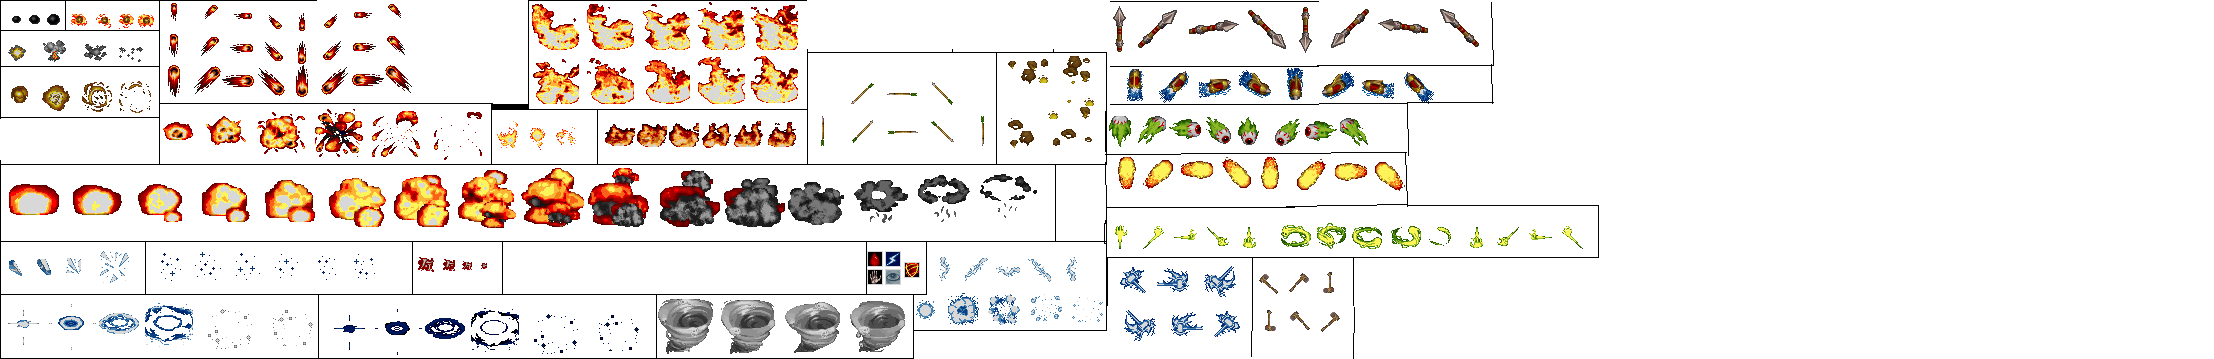
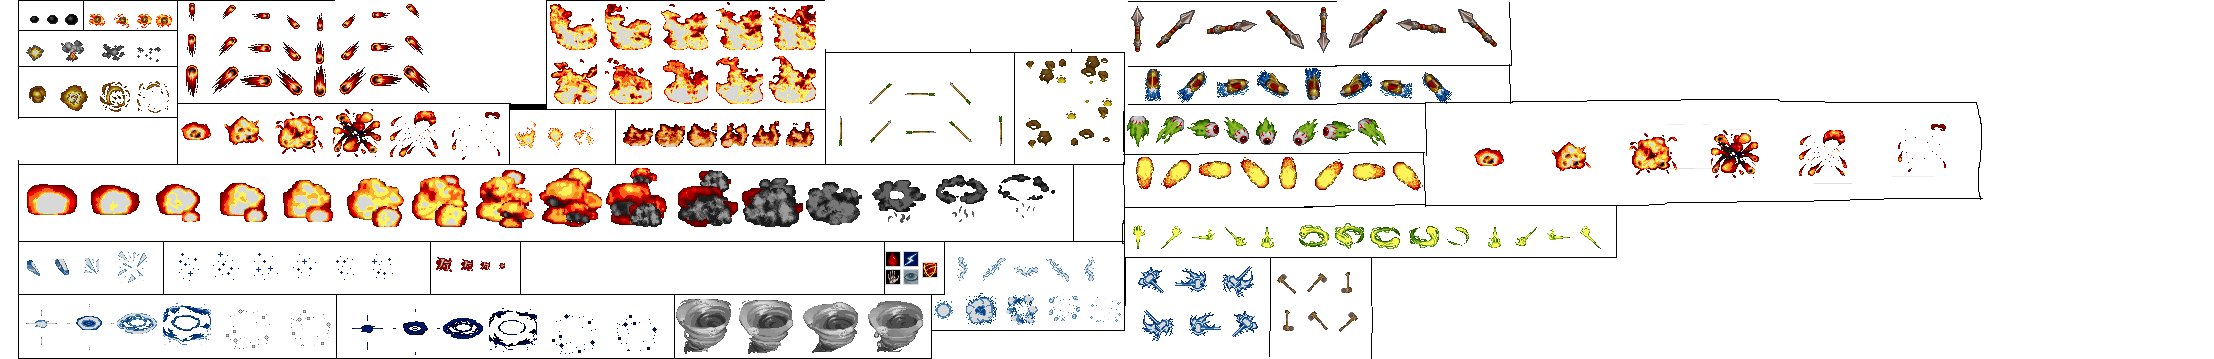
making the whole catapult
done moving frames, still has to check burst and attack ones (plus the
missile)

diff --git a/Characters/Orc.js b/Characters/Orc.js
@@ -156,7 +156,7 @@ Orc.TrollAxethrower=AttackableUnit.extends({
         armor: 0,
         sight: 245,
         attackInterval: 2200,
-        portraitOffset: {x:308,y:4},
+        portraitOffset: {x:309,y:5},  //location of the unit's portrait
         dieEffect:Burst.TrollAxethrowerDeath,
         isFlying:false,
         unitType:Unit.SMALL,
@@ -172,7 +172,7 @@ Orc.TrollAxethrower=AttackableUnit.extends({
 
 Orc.Dragon=AttackableUnit.extends({
     constructorPlus:function(props){
-        //this.direction=3;  //define whre is the unit looking when created. remove line to make it random
+        //this.direction=3;  //define where is the unit looking when created. remove line to make it random
     },
     prototypePlus: {
         //Add basic unit info
@@ -265,55 +265,55 @@ Orc.Catapult=AttackableUnit.extends({
         imgPos: {
             moving: {
                 left: [
-                    [10, 10, 10, 10],
-                    [80, 80, 80],
-                    [160, 160, 160],
-                    [225, 225, 225],
-                    [300, 300, 300],
-                    [300, 300, 300],
-                    [300, 300, 300],
-                    [300, 300, 300]
+                    [0, 0],
+                    [60, 60],
+                    [135, 135],
+                    [205, 205],
+                    [280, 280],
+                    [342, 342],
+                    [423, 423],
+                    [495, 495]
                 ],
                 top: [
-                    [55, 108, 165, 220],
-                    [55, 108, 165,220],
-                    [55, 108, 165,220],
-                    [55, 108, 165,220],
-                    [55, 108, 165,220],
-                    [55, 108, 165,220],
-                    [55, 108, 165,220],
-                    [55, 108, 165,220]
+                    [0, 70],
+                    [0, 70],
+                    [0, 70],
+                    [0, 70],
+                    [0, 70],
+                    [0, 70],
+                    [0, 70],
+                    [0, 70]
                 ]
             },
             attack: {
                 left: [
-                    [1, 1, 1, 1],
-                    [80, 80, 80, 80],
-                    [145, 145, 145, 145],
-                    [225, 225, 225, 225],
-                    [300, 300, 300, 300],
-                    [300, 300, 300, 300],
-                    [300, 300, 300, 300],
-                    [300, 300, 300, 300]
+                    [0, 0],
+                    [60, 60],
+                    [135, 135],
+                    [205, 205],
+                    [280, 280],
+                    [342, 342],
+                    [423, 423],
+                    [495, 495]
                 ],
                 top: [
-                    [275, 300, 300, 300],
-                    [275, 300, 300, 300],
-                    [275, 300, 300, 300],
-                    [275, 300, 300, 300],
-                    [275, 300, 300, 300],
-                    [275, 300, 300, 300],
-                    [275, 300, 300, 300],
-                    [275, 300, 300, 300]
+                    [137, 208],
+                    [137, 208],
+                    [137, 208],
+                    [137, 208],
+                    [137, 208],
+                    [137, 208],
+                    [137, 208],
+                    [137, 208]
                 ]
             },
             dock: {
-                left: [4, 68, 135, 205, 280, 355, 423, 495],
-                top: [2, 2, 2, 2, 2, 2, 2, 2]
+                left: [0, 60, 135, 205, 280, 342, 423, 495],
+                top: [0, 2, 2, 2, 2, 2, 2, 2]
             },
         },
-        width: 49,
-        height: 59,//128N-92
+        width: 73,
+        height: 65,//128N-92
         frame: {
             moving: 3,
             dock: 1,
@@ -325,13 +325,12 @@ Orc.Catapult=AttackableUnit.extends({
         damage: 50,
         armor:50,
         sight:245,
-        meleeAttack: true,
-        attackInterval: 2200,
+        attackInterval: 5000,
         portraitOffset: {x:349,y:46},
-        dieEffect:Burst.DroneDeath,
+        dieEffect:Burst.Catapult,
         isFlying:false,
         attackLimit:"ground",
-        unitType:Unit.SMALL,
+        unitType:Unit.BIG,
         attackType:AttackableUnit.NORMAL_ATTACK,
         recover:Building.ZergBuilding.prototype.recover,
         cost:{

diff --git a/Characters/Burst.js b/Characters/Burst.js
@@ -1541,3 +1541,24 @@ Burst.TrollAxethrowerDeath=Burst.extends({
         }
     }
 });
+
+Burst.CatapultDeath=Burst.extends({
+    constructorPlus:function(props){
+        //Nothing
+    },
+    prototypePlus:{
+        //Add basic unit info
+        name:"Magic and Missiles",
+        imgPos:{
+            burst:{
+                left:[1459, 1542, 1622, 1702, 1790, 1893],
+                top:[128, 128, 128, 128, 128, 128]
+            }
+        },
+        width:60,
+        height:56,
+        frame:{
+            burst:6
+        }
+    }
+});

diff --git a/GameRule/Levels.js b/GameRule/Levels.js
@@ -320,7 +320,11 @@ var Levels=[
             //Load units
 			//new Human.Footman({x:200, y:610});
 	        //new Orc.Grunt({x:200,y:500});
-			new Orc.TrollAxethrower({x:100, y:100})
+			new Orc.TrollAxethrower({x:100, y:100});
+			new Orc.TrollDestroyer({x:150, y:100});
+			new Orc.Dragon({x:200, y :100});
+			new Orc.Grunt({x:250, y:100});
+			new Orc.Catapult({x:300, y:100});
             //Add enemy
             /*new Terran.SCV({x:600,y:400,isEnemy:true});
             new Zerg.Mutalisk({x:700,y:100,isEnemy:true});
